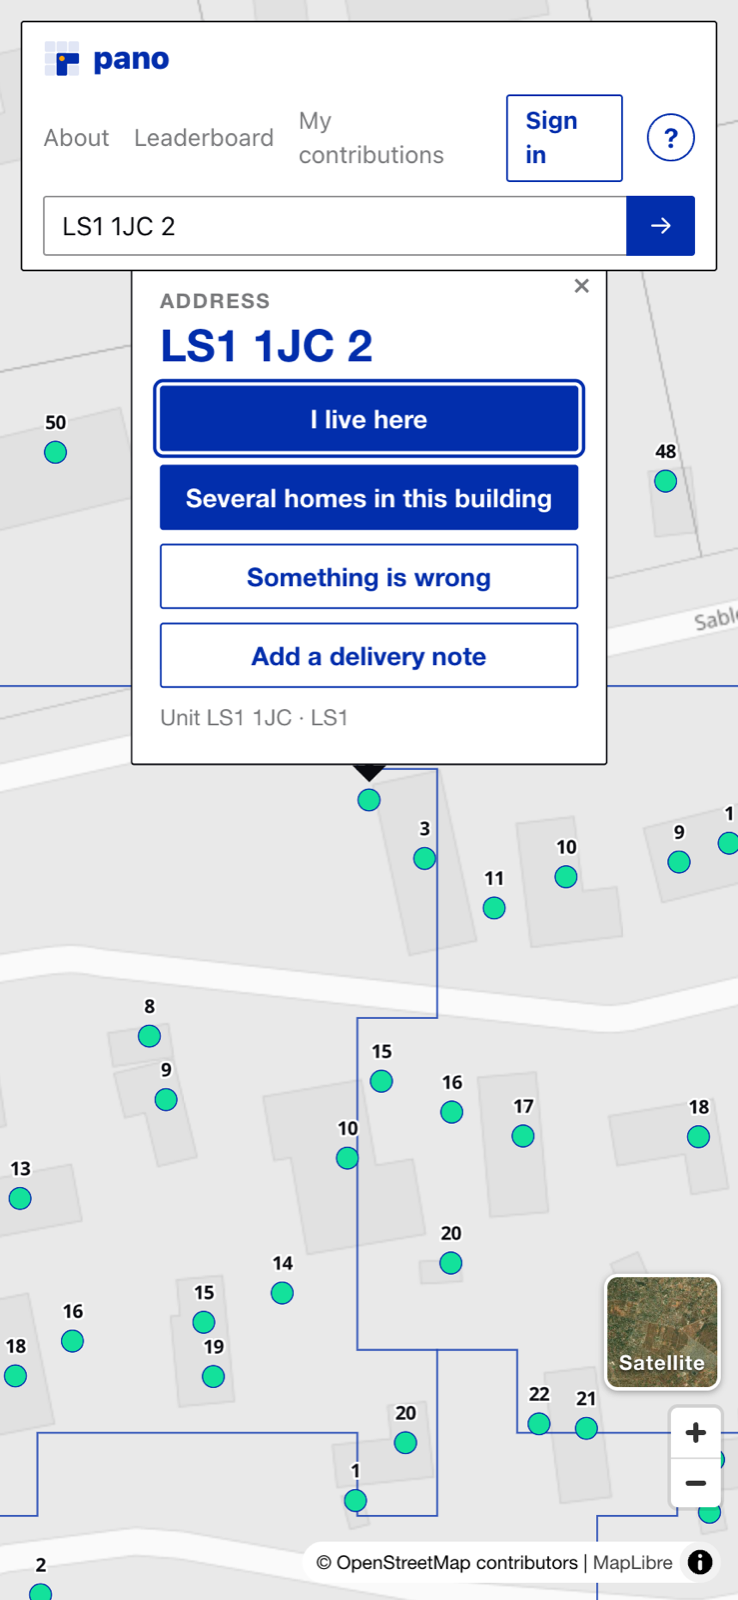
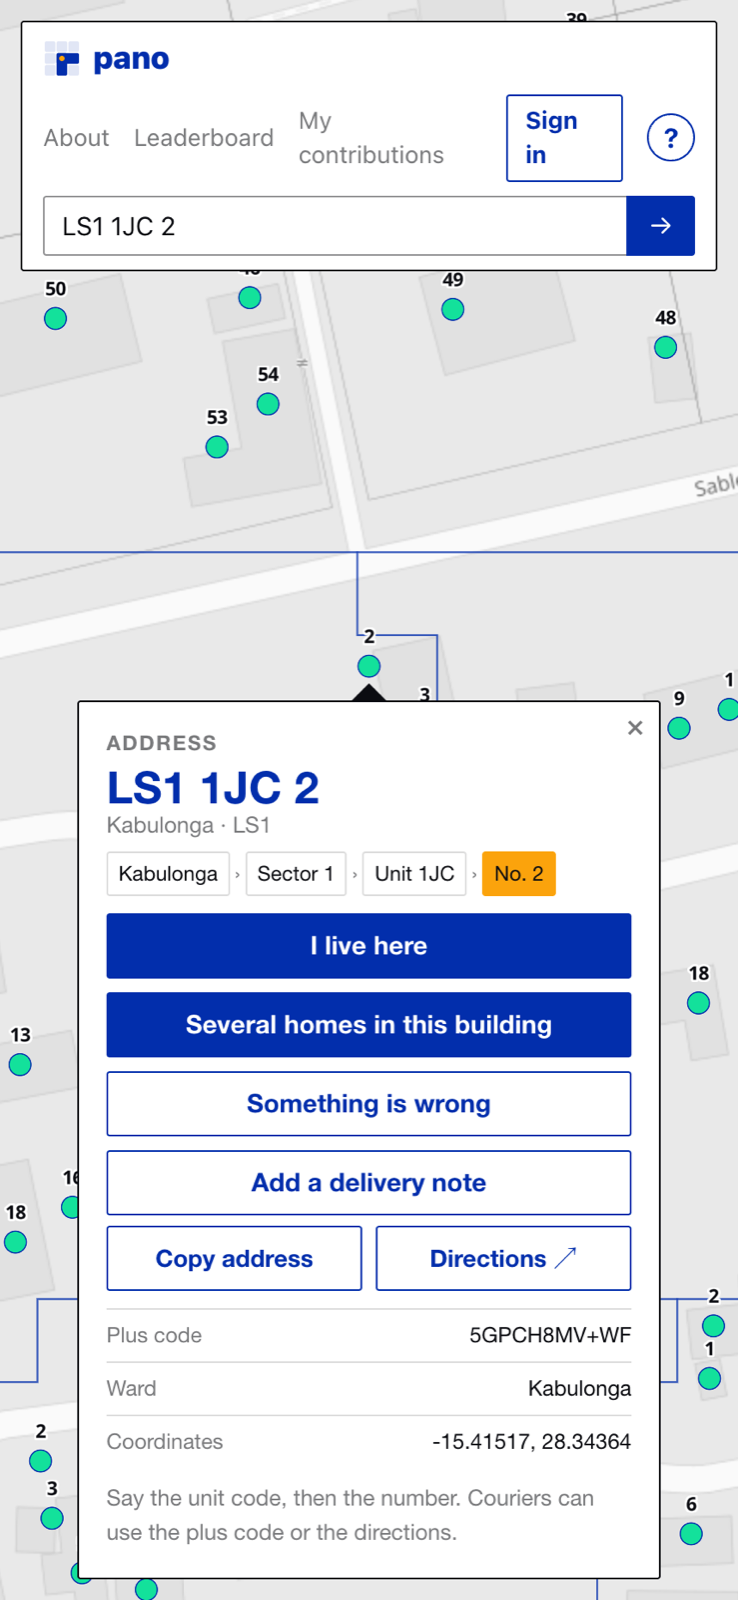
feat: the map card says as much as the pano page's
Tap a building and the card now carries the district name under the
address, crumbs for district › sector › unit › number that step back
up the hierarchy, copy and directions, and the facts a courier wants:
plus code, the NSDI ward the point falls in (point-in-polygon over the
overlay, in the browser), coordinates. Units, sectors and districts get
their counts from /resolve. The map pans so the whole card sits under
the bar, and on a phone the corner controls step aside while it is open.

Claude-Session: https://claude.ai/code/session_015MA6EVJhnYjPz7w1iBwb9f

diff --git a/app/javascript/controllers/map_controller.js b/app/javascript/controllers/map_controller.js
@@ -2,6 +2,26 @@ import { Controller } from "@hotwired/stimulus"
 import "maplibre-gl"
 const maplibregl = window.maplibregl
 
+// Plus code of a point at 10 characters, for the courier line. Same
+// arithmetic as the pano page; the API's cell10 is preferred when it has one.
+function plusCode(lat, lng) {
+  const A = "23456789CFGHJMPQRVWX"
+  let row = Math.floor((lat + 90) / 0.000125), col = Math.floor((lng + 180) / 0.000125)
+  const d = []
+  for (let i = 4; i >= 0; i--) { d.unshift(A[col % 20]); d.unshift(A[row % 20]); row = Math.floor(row / 20); col = Math.floor(col / 20) }
+  return d.slice(0, 8).join("") + "+" + d.slice(8).join("")
+}
+
+// Point in a linear ring, by crossing count.
+function inRing(ring, x, y) {
+  let inside = false
+  for (let i = 0, j = ring.length - 1; i < ring.length; j = i++) {
+    const [xi, yi] = ring[i], [xj, yj] = ring[j]
+    if ((yi > y) !== (yj > y) && x < ((xj - xi) * (y - yi)) / (yj - yi) + xi) inside = !inside
+  }
+  return inside
+}
+
 // The map: the pano API draws the picture, this controller only asks it
 // questions. A tap on a building or the ground calls /encode and fills the
 // card; the card's buttons are plain links into the contribution forms.
@@ -79,11 +99,15 @@ export default class extends Controller {
     this.#loadMine()
     const districts = await this.#get("/districts")
     if (districts) {
+      this.names = Object.fromEntries(districts.features.map(f => [f.properties.code, f.properties.name || ""]))
       this.map.getSource("district-outlines").setData(districts)
       const labels = { type: "FeatureCollection", features: districts.features.map(f => ({ type: "Feature", geometry: { type: "Point", coordinates: [f.properties.centroid_lng, f.properties.centroid_lat] }, properties: { ...f.properties, name: `${f.properties.name || ""}\n${f.properties.code}` } })) }
       this.map.getSource("districts").setData(labels)
     }
     this.#refresh()
+    // The NSDI ward lines shaped the partition; the card names the ward a
+    // point falls in when the server has the layer. Not part of the scheme.
+    this.wards = await this.#get("/overlays/wards")
     try { this.satellite = localStorage.getItem("pano.basemap") === "sat" } catch { this.satellite = false }
     if (this.satellite) this.#applyBasemap()
   }
@@ -218,8 +242,9 @@ export default class extends Controller {
     this.map.getSource("selected").setData({ type: "Feature", geometry: body.boundary, properties: {} })
     this.#fitTo(body.boundary)
     this.at = { lng: body.centroid.lng, lat: body.centroid.lat }
-    if (body.tier === "district") this.#showDistrict({ code: body.code, name: name || "" })
-    else this.#card(body.tier === "sector" ? "Sector" : "Unit", body.code, [], body.tier === "unit" ? "Tap a building for its address." : `${body.units?.length || 0} units`)
+    if (body.tier === "district") this.#showDistrict({ code: body.code, name: name || "" }, body)
+    else if (body.tier === "sector") this.#showSector(body)
+    else this.#showUnit(body)
   }
 
   #fitTo(geometry) {
@@ -312,44 +337,171 @@ export default class extends Controller {
 
   #showBuilding(body) {
     const b = body.building
-    this.#card("Address", b.address, [
-      this.#link("I live here", `/contributions/new?kind=confirm_address&building_id=${b.id}`, "btn"),
-      this.#link("Several homes in this building", `/contributions/new?kind=multi_occupancy&building_id=${b.id}`, "btn"),
-      this.#link("Something is wrong", `/contributions/new?kind=dispute_address&building_id=${b.id}`, "btn btn--ghost"),
-      this.#link("Add a delivery note", `/contributions/new?kind=delivery_note&building_id=${b.id}`, "btn btn--ghost")
-    ], b.subs?.length ? `Unit ${body.code} · ${body.parents.district} · homes: ${b.subs.join(", ")}` : `Unit ${body.code} · ${body.parents.district}`)
+    const unit = body.code
+    const district = body.parents.district
+    const name = this.names?.[district] || ""
+    const facts = []
+    if (b.subs?.length) facts.push(["Homes", b.subs.join(", ")])
+    facts.push(["Plus code", plusCode(b.lat, b.lng)])
+    const ward = this.#wardAt(b.lng, b.lat); if (ward) facts.push(["Ward", ward])
+    facts.push(["Coordinates", `${b.lat.toFixed(5)}, ${b.lng.toFixed(5)}`])
+    this.#card({
+      eyebrow: "Address", headline: b.address, sub: name ? `${name} · ${district}` : district,
+      crumbs: this.#crumbs(district, body.parents.sector, unit, b.number),
+      actions: [
+        this.#link("I live here", `/contributions/new?kind=confirm_address&building_id=${b.id}`, "btn"),
+        this.#link("Several homes in this building", `/contributions/new?kind=multi_occupancy&building_id=${b.id}`, "btn"),
+        this.#link("Something is wrong", `/contributions/new?kind=dispute_address&building_id=${b.id}`, "btn btn--ghost"),
+        this.#link("Add a delivery note", `/contributions/new?kind=delivery_note&building_id=${b.id}`, "btn btn--ghost")
+      ],
+      tools: [ this.#copy("Copy address", b.address), this.#directions(b.lat, b.lng) ],
+      facts, note: "Say the unit code, then the number. Couriers can use the plus code or the directions."
+    })
   }
 
-  #showUnit(body) {
-    this.#card("Unit", body.code, [], "Tap a building for its address.")
+  // From a tap, /encode has no structure count; /resolve does.
+  async #showUnit(body) {
+    const full = body.structures === undefined ? await this.#get(`/resolve/${encodeURIComponent(body.code)}`) : null
+    const structures = body.structures ?? full?.structures
+    const district = body.parents.district
+    const name = this.names?.[district] || ""
+    const facts = []
+    if (structures !== undefined) facts.push(["Buildings", String(structures)])
+    if (body.cell10) facts.push(["Plus code", body.cell10])
+    const ward = this.#wardAt(this.at.lng, this.at.lat); if (ward) facts.push(["Ward", ward])
+    facts.push(["Coordinates", `${this.at.lat.toFixed(5)}, ${this.at.lng.toFixed(5)}`])
+    this.#card({
+      eyebrow: "Unit · about forty buildings", headline: body.code, sub: name ? `${name} · ${district}` : district,
+      crumbs: this.#crumbs(district, body.parents.sector, body.code),
+      tools: [ this.#copy("Copy code", body.code), this.#directions(this.at.lat, this.at.lng) ],
+      facts, note: "Tap a building for its address."
+    })
   }
 
-  #showDistrict(p) {
-    const name = (p.name || "").split("\n")[0] || p.code
-    this.#card("District", name, [
-      this.#link(`Yes, this is ${name}`, `/contributions/new?kind=confirm_district&target_code=${encodeURIComponent(p.code)}`, "btn")
-    ], `${p.code} · Zoom in to tap a building`)
+  #showSector(body) {
+    const district = body.parents.district
+    const name = this.names?.[district] || ""
+    this.#card({
+      eyebrow: "Sector", headline: body.code, sub: name ? `${name} · ${district}` : district,
+      crumbs: this.#crumbs(district, body.code),
+      tools: [ this.#copy("Copy code", body.code) ],
+      facts: [ ["Buildings", String(body.structures)], ["Units", String(body.units?.length || 0)] ],
+      note: "Tap inside to go down a level."
+    })
+  }
+
+  // From a tap at city zoom only the outline's properties are known; the
+  // counts come from /resolve.
+  async #showDistrict(p, body) {
+    const name = (p.name || "").split("\n")[0] || this.names?.[p.code] || p.code
+    const full = body || await this.#get(`/resolve/${encodeURIComponent(p.code)}`)
+    const facts = []
+    if (full?.structures !== undefined) facts.push(["Buildings", String(full.structures)])
+    if (full?.units) {
+      facts.push(["Sectors", String(new Set(full.units.map(u => u.split(" ")[1][0])).size)])
+      facts.push(["Units", String(full.units.length)])
+    }
+    this.#card({
+      eyebrow: "District", headline: name, sub: p.code,
+      crumbs: this.#crumbs(p.code),
+      actions: [ this.#link(`Yes, this is ${name}`, `/contributions/new?kind=confirm_district&target_code=${encodeURIComponent(p.code)}`, "btn") ],
+      facts, note: "Zoom in to tap a building."
+    })
   }
 
   #showMine(p) {
     const status = { pending: "Pending", accepted: "Accepted", rejected: "Rejected", superseded: "Superseded" }[p.status] || p.status
     const kind = p.kind.replaceAll("_", " ")
-    this.#card(`Your contribution · ${status}`, p.label, [ this.#link("See it", p.url, "btn") ], p.name ? `${kind}: ${p.name}` : kind)
+    this.#card({ eyebrow: `Your contribution · ${status}`, headline: p.label, actions: [ this.#link("See it", p.url, "btn") ], note: p.name ? `${kind}: ${p.name}` : kind })
   }
 
-  #showMessage(text) { this.#card("", "", [], text) }
+  // District › Sector › Unit › No., each a step back up the hierarchy.
+  #crumbs(district, sector, unit, number) {
+    const crumb = (code, label, current) => {
+      const a = document.createElement("a")
+      a.textContent = label; a.className = current ? "is-current" : ""
+      if (!current) { a.href = "#"; a.addEventListener("click", (e) => { e.preventDefault(); this.#resolve(code, code === district ? this.names?.[district] : undefined) }) }
+      return a
+    }
+    const current = number !== undefined ? "number" : unit ? "unit" : sector ? "sector" : "district"
+    const parts = [ crumb(district, this.names?.[district] || district, current === "district") ]
+    if (sector) parts.push(crumb(sector, `Sector ${sector.split(" ")[1]}`, current === "sector"))
+    if (unit) parts.push(crumb(unit, `Unit ${unit.split(" ")[1]}`, current === "unit"))
+    if (number !== undefined) parts.push(crumb(null, `No. ${number}`, true))
+    return parts
+  }
 
-  // A popup anchored where the person tapped, in place of a bottom sheet.
-  #card(eyebrow, headline, actions, note) {
+  // Which NSDI ward a point falls in, by ray casting over the overlay.
+  #wardAt(lng, lat) {
+    for (const f of this.wards?.features || []) {
+      const polys = f.geometry.type === "Polygon" ? [f.geometry.coordinates] : f.geometry.coordinates
+      for (const rings of polys) {
+        if (inRing(rings[0], lng, lat) && !rings.slice(1).some(h => inRing(h, lng, lat))) return f.properties.name || f.properties.constituency || null
+      }
+    }
+    return null
+  }
+
+  #copy(label, text) {
+    const b = document.createElement("button")
+    b.type = "button"; b.className = "btn btn--ghost btn--small"; b.textContent = label
+    b.addEventListener("click", async () => {
+      try { await navigator.clipboard.writeText(text); b.textContent = "Copied" } catch { b.textContent = text }
+      setTimeout(() => { b.textContent = label }, 1500)
+    })
+    return b
+  }
+
+  #directions(lat, lng) {
+    const a = document.createElement("a")
+    a.className = "btn btn--ghost btn--small"; a.textContent = "Directions ↗"
+    a.href = `https://www.google.com/maps/dir/?api=1&destination=${lat.toFixed(6)},${lng.toFixed(6)}`; a.target = "_blank"; a.rel = "noopener"
+    return a
+  }
+
+  #showMessage(text) { this.#card({ note: text }) }
+
+  // A popup anchored where the person tapped, in place of a bottom sheet:
+  // what the place is, where it sits in the hierarchy, what you can say
+  // about it, and the facts a courier wants.
+  #card({ eyebrow, headline, sub, crumbs = [], actions = [], tools = [], facts = [], note }) {
     const el = document.createElement("div")
     const add = (tag, cls, text) => { const n = document.createElement(tag); n.className = cls; n.textContent = text; el.append(n); return n }
     if (eyebrow) add("p", "eyebrow", eyebrow)
-    if (headline) add("p", "address", headline)
+    if (headline) {
+      const h = add("p", "address", headline)
+      if (sub) { const sm = document.createElement("small"); sm.textContent = sub; h.append(sm) }
+    }
+    if (crumbs.length) {
+      const c = add("div", "crumbs", "")
+      crumbs.forEach((a, i) => { if (i) { const sep = document.createElement("span"); sep.className = "sep"; sep.textContent = "›"; c.append(sep) } c.append(a) })
+    }
     if (actions.length) { const a = add("div", "actions", ""); a.replaceChildren(...actions) }
+    if (tools.length) { const t = add("div", "actions actions--row", ""); t.replaceChildren(...tools) }
+    if (facts.length) {
+      const dl = add("dl", "facts", "")
+      for (const [k, v] of facts) { const d = document.createElement("div"); const dt = document.createElement("dt"); dt.textContent = k; const dd = document.createElement("dd"); dd.textContent = v; d.append(dt, dd); dl.append(d) }
+    }
     if (note) add("p", "note", note)
     this.popup?.remove()
-    this.popup = new maplibregl.Popup({ closeButton: true, closeOnClick: true, maxWidth: "34rem", offset: 10 })
+    this.popup = new maplibregl.Popup({ closeButton: true, closeOnClick: true, maxWidth: "34rem", offset: 10, focusAfterOpen: false })
       .setLngLat(this.at).setDOMContent(el).addTo(this.map)
+    // On a phone the card takes the width; the corner controls step aside.
+    this.canvasTarget.classList.add("has-card")
+    this.popup.on("close", () => this.canvasTarget.classList.remove("has-card"))
+    this.#fitPopup()
+  }
+
+  // A card with facts is taller than the tap point allows for; pan the
+  // map so the whole card is on screen, under the bar.
+  #fitPopup() {
+    const el = this.popup?.getElement(); if (!el) return
+    const rect = el.getBoundingClientRect(), box = this.canvasTarget.getBoundingClientRect()
+    const bar = this.element.querySelector(".bar")?.getBoundingClientRect().bottom ?? box.top
+    let dy = 0
+    if (rect.bottom > box.bottom - 12) dy = rect.bottom - (box.bottom - 12)
+    if (rect.top - dy < bar + 12) dy = rect.top - (bar + 12)
+    if (dy) this.map.panBy([0, dy], { duration: 250 })
   }
 
   // Contribution forms open in the page's modal frame over the map.

diff --git a/app/assets/stylesheets/application.css b/app/assets/stylesheets/application.css
@@ -299,3 +299,21 @@ select.field { appearance: auto; }
 .resident .choices { margin: 0; }
 .resident { margin-bottom: 3.2rem; }
 .resident .choices { margin-top: .4rem; }
+
+/* The map card: hierarchy crumbs and courier facts, as on the pano page */
+.maplibregl-popup-content .address small { display: block; font-size: 1.3rem; font-weight: 400; color: var(--subtle); margin-top: .2rem; letter-spacing: 0; }
+.maplibregl-popup-content .crumbs { display: flex; flex-wrap: wrap; gap: .3rem; align-items: center; margin: 0 0 .8rem; font-size: 1.2rem; }
+.maplibregl-popup-content .crumbs a { padding: .2rem .6rem; border: 1px solid var(--hairline); border-radius: var(--radius); color: var(--ink); text-decoration: none; }
+.maplibregl-popup-content .crumbs a[href]:hover { border-color: var(--accent); color: var(--accent); }
+.maplibregl-popup-content .crumbs a.is-current { background: var(--amber); border-color: var(--amber); }
+.maplibregl-popup-content .crumbs .sep { color: var(--subtle); }
+.maplibregl-popup-content .actions--row { flex-direction: row; margin-top: .6rem; }
+.maplibregl-popup-content .actions--row .btn { width: auto; flex: 1; }
+.maplibregl-popup-content .facts { margin: 1rem 0 0; }
+.maplibregl-popup-content .facts div { padding: .5rem 0; font-size: 1.25rem; }
+@media (max-width: 880px) {
+  .maplibregl-popup-content { max-height: 62vh; overflow-y: auto; }
+}
+@media (max-width: 880px) {
+  .map.has-card .maplibregl-ctrl-bottom-right { display: none; }
+}

diff --git a/README.md b/README.md
@@ -6,7 +6,7 @@ calls Kabulonga "Kabulonga", whether the dot at `LS1 1JC 2` is a home or a
 shed, or that the block behind the green gate holds four families. Only
 people can. This is where they say so.
 
-![Tap a building: its address, and the four things you can say about it](docs/screenshots/address.png)
+![Tap a building: its address, where it sits, what you can say about it, and what a courier needs](docs/screenshots/address.png)
 
 Anyone with the map open can say they live at an address, describe the
 homes inside a shared building, report that something is wrong, or leave
